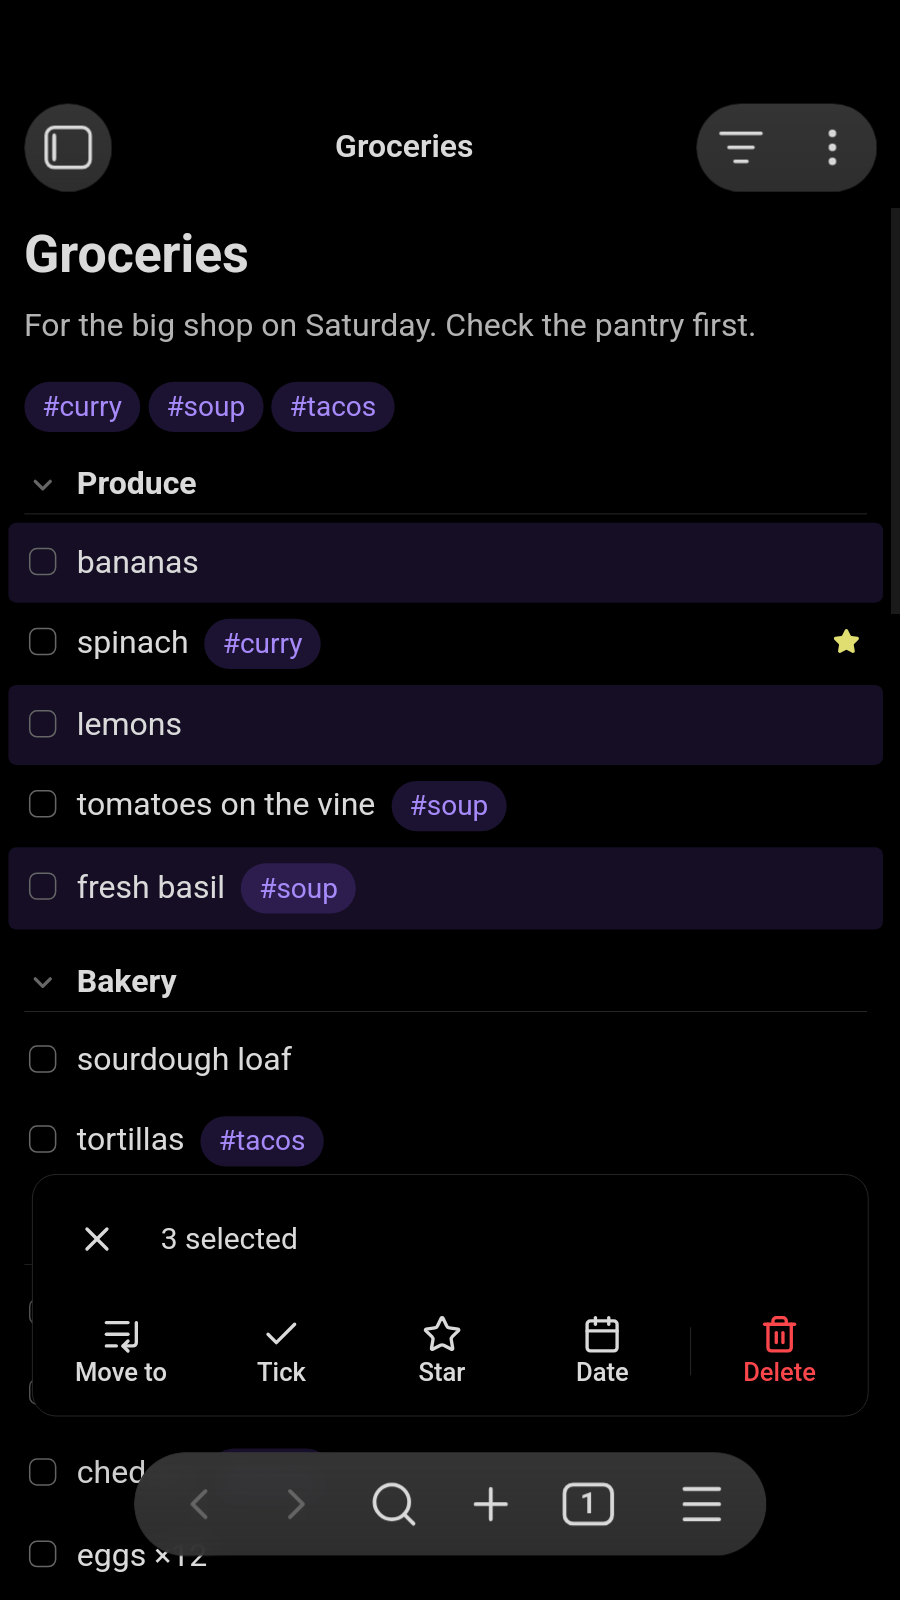
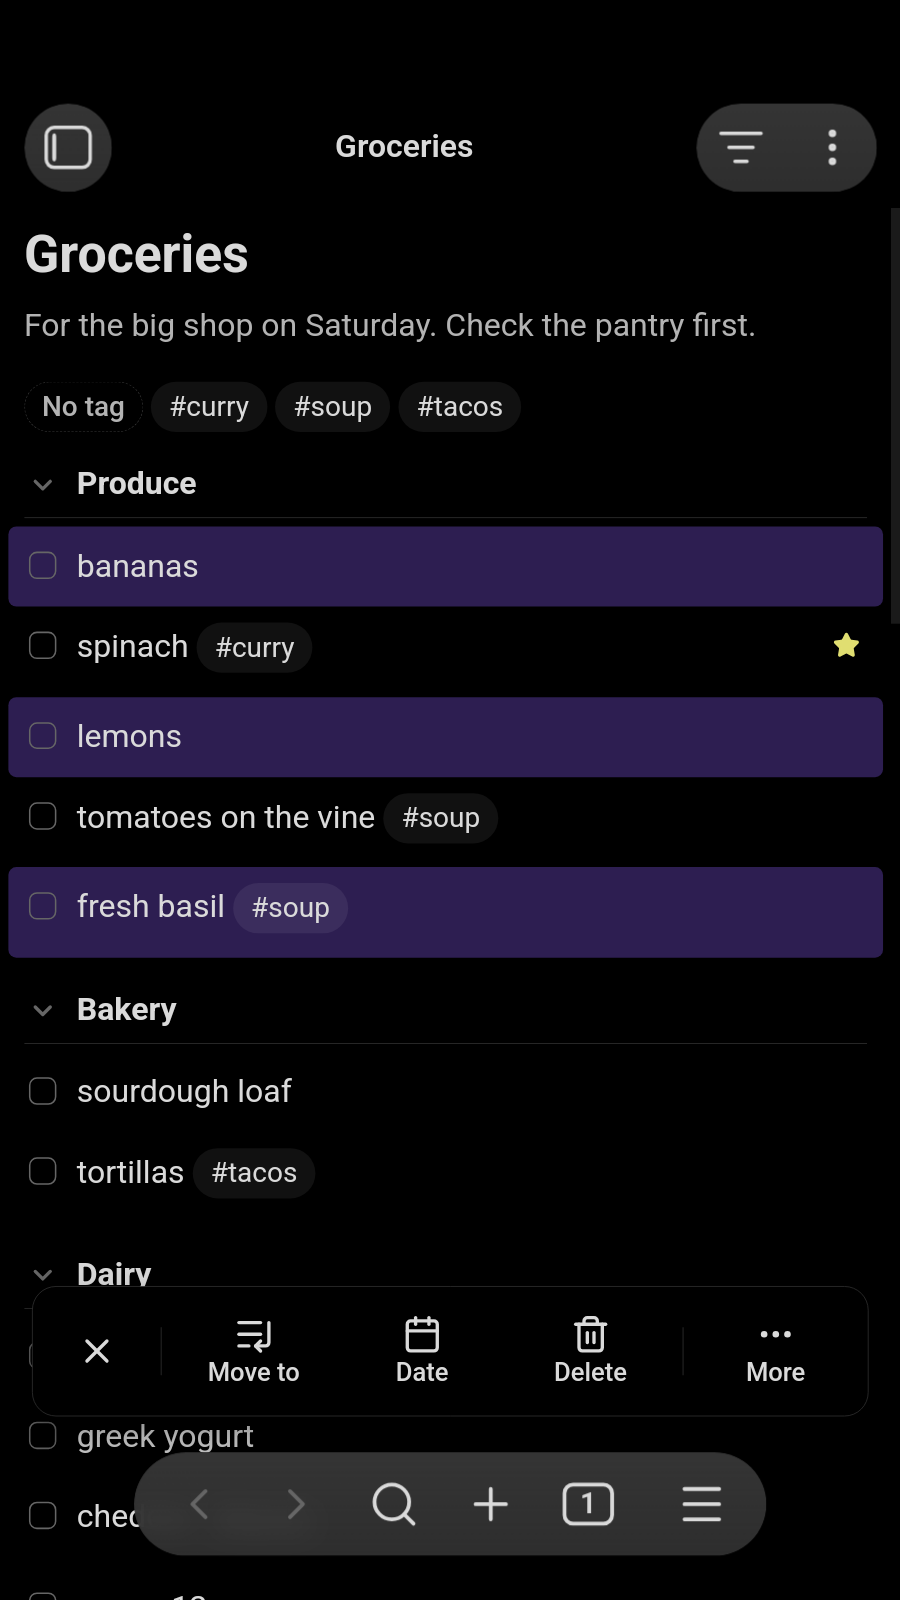
Release 1.5.0 (#495)
## What does this PR do?

Prepares 1.5.0: `npm version minor`, the pictures retaken where the
interface changed since 1.4.0, and the docs those changes made false.

- **Pictures:** `list-desktop`, `notes`, `tags`, `select-several`,
`schedule`, `filter` and `tick-and-drag` in the README, and `desktop-1`
to `desktop-3`, `phone-1` and `phone-2` in `docs/listing/`, for the new
card, tag labels, checkboxes, selection bar and Schedule. The rest, shot
again, differed only in their dates and stay.
- **Scenes:** holds last 1000 ms, past the 800 ms hold from #491.
`list-desktop` sets the day and the star before the notes and keeps the
dropped picture in view, `tags` leaves no tooltip behind, and `notes`
keeps the floating + off the card.
- **README:** alt text for `list-desktop`, `select-several` (Add star is
in More) and `schedule` (items under their list); the Repeat bullet says
opening the Schedule, or a note showing a list, brings due items back;
Contributing points to AGENTS.md's designs.
- **AGENTS.md:** the plans list includes repeating items.
- **Specs:** step two, notes in one editor, selecting several, tagging a
selection and tag from menus still hold against the code, so their
`verified` dates move to today.

The release notes are in a comment below.

## Why is this change needed?

AGENTS.md's release steps check the pictures, the README and the version
in the version's pull request. The scenes broke on the card's new
[…]

diff --git a/README.md b/README.md
@@ -4,7 +4,7 @@
 
 PrinceLists turns a note into a todo list, and a Schedule view shows what's coming up across all your lists. It's simple to use, and powerful when you need it.
 
-![In a todo list in Obsidian, a new item gets a title, notes with a link and a dropped picture, a star and a day, then it is dragged into place and another item is ticked](https://raw.githubusercontent.com/princelundgren/PrinceListsObsidianPlugin/main/docs/images/list-desktop.gif)
+![In a todo list in Obsidian, a new item gets a title, a day and a star, then notes with a link and a dropped picture, then it is dragged into place and another item is ticked](https://raw.githubusercontent.com/princelundgren/PrinceListsObsidianPlugin/main/docs/images/list-desktop.gif)
 
 Make a list from the ribbon, a folder, or a note you already have.
 
@@ -22,7 +22,7 @@ Tag items to group them across sections. The items' tags sit above the list, and
 
 Hold an item to select it, then Cmd+click or tap others to add them. Move, tick, tag, star, date, duplicate or delete them all at once.
 
-![In a todo list, a row is held until it is selected and two more are Cmd-clicked to join it, then dragging one takes all three under the Admin heading, and Star in the bar at the bottom stars them](https://raw.githubusercontent.com/princelundgren/PrinceListsObsidianPlugin/main/docs/images/select-several.gif)
+![In a todo list, a row is held until it is selected and two more are Cmd-clicked to join it, then dragging one takes all three under the Admin heading, and Add star in the More menu of the bar at the bottom stars them](https://raw.githubusercontent.com/princelundgren/PrinceListsObsidianPlugin/main/docs/images/select-several.gif)
 
 Each item has a title, a date, a star and powerful notes, with a toolbar for formatting.
 
@@ -30,7 +30,7 @@ Each item has a title, a date, a star and powerful notes, with a toolbar for for
 
 The Schedule shows the dated items from all your lists.
 
-![The Schedule in the right sidebar scrolls through dated items from several lists, under Today, Tomorrow, Next 7 days and the start of Later](https://raw.githubusercontent.com/princelundgren/PrinceListsObsidianPlugin/main/docs/images/schedule.gif)
+![The Schedule in the right sidebar scrolls through dated items from several lists, grouped by list, under Today, Tomorrow, Next 7 days and the start of Later](https://raw.githubusercontent.com/princelundgren/PrinceListsObsidianPlugin/main/docs/images/schedule.gif)
 
 It works great on your phone too.
 
@@ -59,7 +59,7 @@ You can embed lists in normal notes.
 
 - **Add** with the floating **+**, or drag the **+** onto the list to add an item right where it drops, and **drag** to reorder. The settings can keep the **+** to desktop or mobile, or turn it off.
 - **Star** an item and give it a date.
-- **Repeat** an item: set every 3 days, each month on the last day or another rule, with an end if you like, from its card or its menu, and a ticked item is done until its next date, then comes back open when you next open or return to its list, or return to Obsidian while a list view, the Schedule or a note showing that list is on screen. Until then, Tasks queries and other apps show it done.
+- **Repeat** an item: set every 3 days, each month on the last day or another rule, with an end if you like, from its card or its menu, and a ticked item is done until its next date, then comes back open when you next open or return to its list, or return to Obsidian while a list view, the Schedule or a note showing that list is on screen. Opening the Schedule brings back the due items of every list, and opening a note that shows a list brings back that list's. Until then, Tasks queries and other apps show it done.
 - **Tags:** write a tag on an item, or add it from the tag button in its card or **Tag…** in its right-click menu, with suggestions. Items show their own tags as labels. A tag in a heading, as in `## Office #work`, counts for every item in its section, and the `tags` property counts for every item in the list, though neither shows on the rows. The list's tags show right of its title, and a press on them opens **Tag list…**, as does a tag button after the title and its tags while you edit the title. **Tag…** in a heading's menu adds or removes a tag at the end of its text, and **Tag list…** in the list's menu, or the pane's ⋯ menu, adds or removes one in the list's `tags` property.
 - **Select several:** hold an item, or choose **Select** in its menu. On desktop, Cmd+click, Shift+click and Shift+Up or Down select too. A bar then moves, dates or deletes them all at once, and its **More** menu ticks, tags, stars or duplicates them, each with Undo, or adds an item or heading below them; dragging one drags them all. A selected heading brings its section; Tag puts the tag in the heading's own text.
 - **Tick and forget:** ticked items hide after a day, or after a time you choose, from at once to a week.
@@ -147,7 +147,7 @@ Bug reports, ideas and pull requests are welcome.
 
 - Start with [CONTRIBUTING.md](CONTRIBUTING.md) and the [rules in AGENTS.md](AGENTS.md#rules-that-are-never-broken).
 - Be kind: see the [code of conduct](CODE_OF_CONDUCT.md).
-- The designs for [step one](docs/superpowers/specs/2026-10-20-prince-lists-design.md) and [step two](docs/superpowers/specs/2026-10-27-prince-lists-step-2-design.md) say what the plugin does and why.
+- The designs listed in [AGENTS.md](AGENTS.md#project-overview) say what the plugin does and why.
 - To report a security problem, see [SECURITY.md](SECURITY.md).
 
 ## License

diff --git a/AGENTS.md b/AGENTS.md
@@ -32,6 +32,7 @@ this project.
     latest ones for the plugin are
     [the card's tag popover](docs/superpowers/plans/2026-11-12-card-tag-popover.md),
     [tagging a selection](docs/superpowers/plans/2026-11-12-select-tags.md),
+    [repeating items](docs/superpowers/plans/2026-11-13-repeating-items.md),
     [repeating items coming back](docs/superpowers/plans/2026-11-14-repeating-items-come-back.md),
     [inherited tags](docs/superpowers/plans/2026-11-16-inherited-tags.md) and
     [tag from menus](docs/superpowers/plans/2026-11-16-tag-from-menus.md), and

diff --git a/docs/superpowers/specs/2026-11-12-select-tags-design.md b/docs/superpowers/specs/2026-11-12-select-tags-design.md
@@ -1,7 +1,7 @@
 ---
 status: live
 governs: [src/**, styles.css]
-verified: 2026-11-17
+verified: 2026-11-18
 tracking: ["#361", "#443", "#450"]
 ---
 

diff --git a/docs/superpowers/specs/2026-11-16-tag-from-menus-design.md b/docs/superpowers/specs/2026-11-16-tag-from-menus-design.md
@@ -1,7 +1,7 @@
 ---
 status: live
 governs: [src/**, styles.css]
-verified: 2026-11-17
+verified: 2026-11-18
 tracking: ["#434", "#442", "#446"]
 ---
 

diff --git a/docs/superpowers/specs/2026-11-07-select-several-design.md b/docs/superpowers/specs/2026-11-07-select-several-design.md
@@ -1,6 +1,6 @@
 ---
 status: live
-verified: 2026-11-17
+verified: 2026-11-18
 governs: [src/**, styles.css]
 tracking: ["#79"]
 ---

diff --git a/docs/superpowers/specs/2026-10-27-prince-lists-step-2-design.md b/docs/superpowers/specs/2026-10-27-prince-lists-step-2-design.md
@@ -1,6 +1,6 @@
 ---
 status: live
-verified: 2026-11-17
+verified: 2026-11-18
 governs: [src/**, styles.css, manifest.json]
 ---
 

diff --git a/docs/superpowers/specs/2026-10-29-notes-in-one-editor-design.md b/docs/superpowers/specs/2026-10-29-notes-in-one-editor-design.md
@@ -1,6 +1,6 @@
 ---
 status: live
-verified: 2026-11-17
+verified: 2026-11-18
 governs: [src/**, styles.css, manifest.json]
 ---
 
